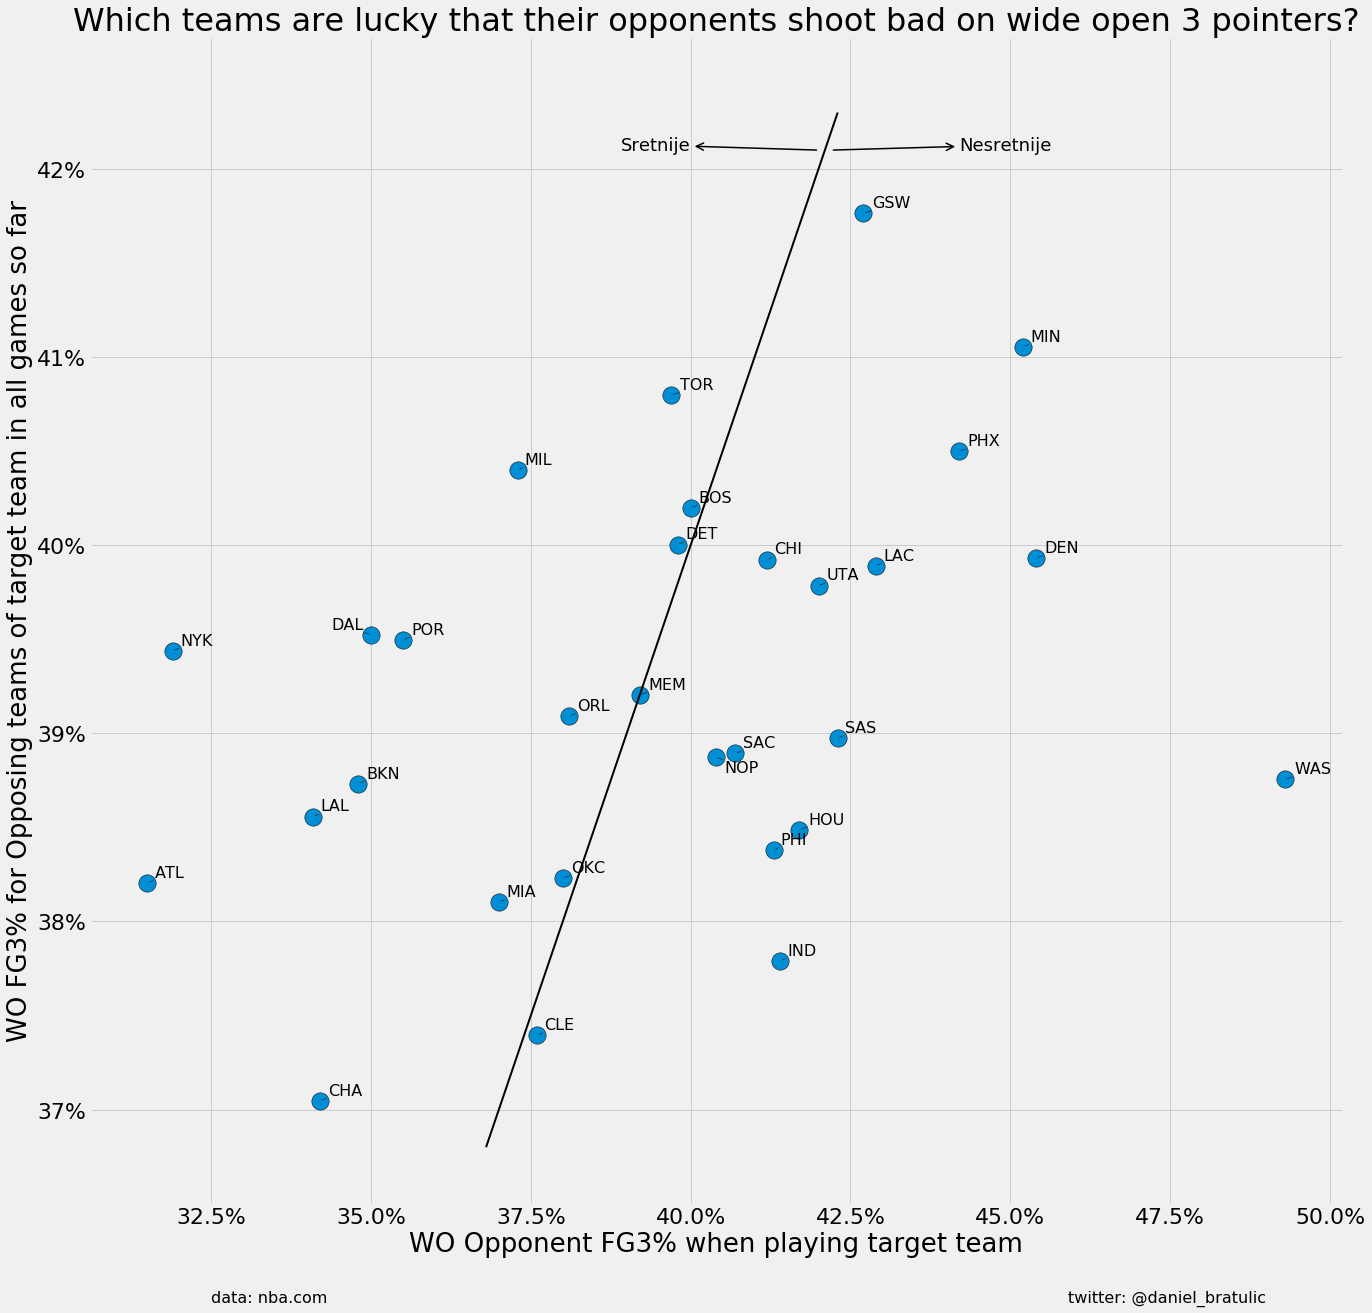
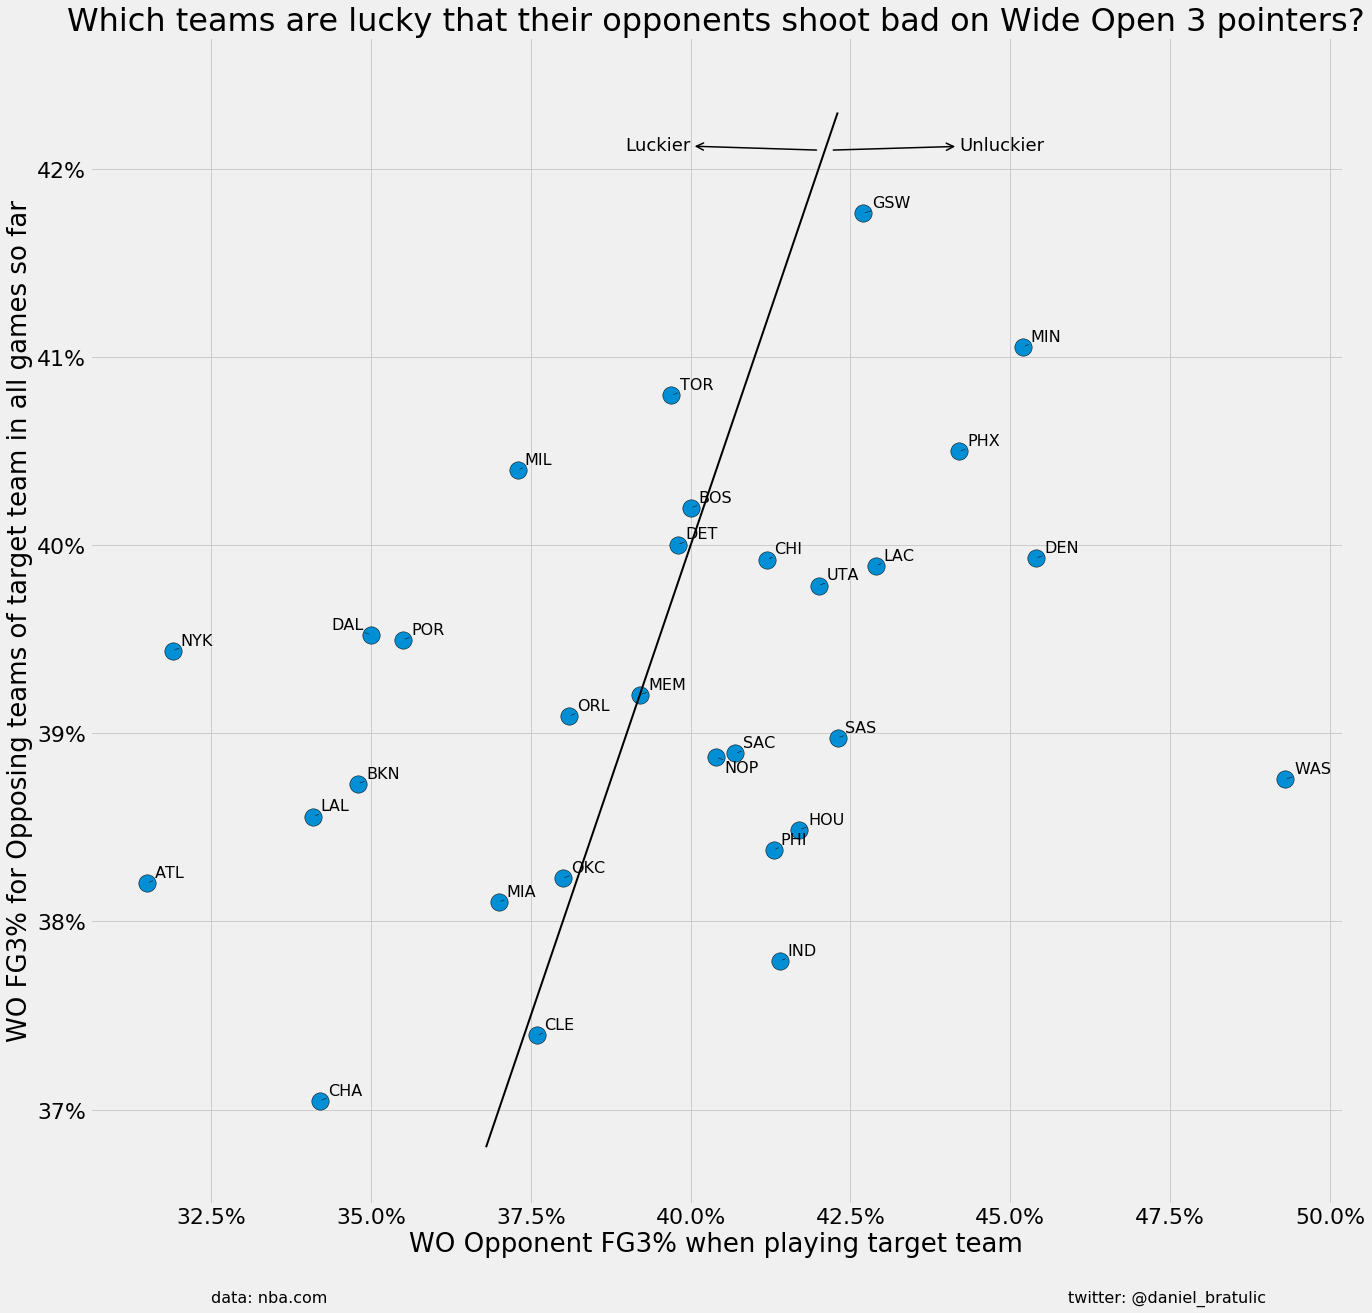
Added english version

Changed region(s): [[0.0306, 0.0, 1.0, 0.0312], [0.7041, 0.0937, 0.7653, 0.1249], [0.4592, 0.0937, 0.4898, 0.1249]]

diff --git a/en/_posts/2021-01-09-unlucky-start.md b/en/_posts/2021-01-09-unlucky-start.md
@@ -1,0 +1,84 @@
+---
+layout: post
+title: (Un)Luckiest Teams Based on Opponent's Wide Open FG3%
+lang: en
+lang-ref: unlucky-start-20-21
+url: unlucky-start-20-21
+twitter_img: /assets/unlucky_start/wide_open_table.jpg
+---
+
+
+![](/assets/unlucky_start/wide_open_table.png)
+
+Some teams started the season surprisingly well, while others started rather badly. So if you glance over this table and then the real NBA standings you'll notice that teams which are on top here have really bad score (Washington 2-7, Denver 3-5 and Minny 2-6).
+
+On the other hand, teams on bottom of this table have a solid score, Hawks currently sit at 4-4 while Knicks' score is 5-4.  
+
+<!--more-->
+
+## Wide Open shots
+
+This table is all about Wide Open Shots. Shot is classified as wide open when the distance between the nearest defender and shooter is 6 Feet (or 1.8 meters). We can say that defender doesn't have a huge impact on these kind of shots because even if he contests the shot, the shooter will still have plenty of space and time to release the ball.
+
+## Definition of Metrics/Statistics
+
+#### ALLOWED WO FG3%
+
+I'll first explain ALLOWED WO FG3% column, since it is easier to explain it. That is basically **FG3% of opponent's wide open three pointers against target team**. If we observe Wizards only, they "allow" 49.3% (7.7 FG3M out of 15.6 FG3A) of opponent's wide open triples.
+
+These numbers are identical to numbers on [this link](https://www.nba.com/stats/teams/opponent-shots-closest-defender/?Season=2020-21&SeasonType=Regular%20Season&CloseDefDistRange=6%2B%20Feet%20-%20Wide%20Open).
+
+#### WO FG3% BY OPP TEAMS
+
+This metric is something else, and it is a bit tougher to explain, so I'll try to use Wizards as an example once again. Their opponents thus far have been: ORL (x2), MIN, CHI (x2), BOS, PHI (x2), BKN.
+
+I'll take all of these opponents (but only once!) and sum up their MADE and ATTEMPTED wide open three point shots in the season thus far.
+
+* ORL -> FG3M: 5.22, FG3A: 14.89
+* MIN -> FG3M: 5.75, FG3A: 15.13
+* CHI -> FG3M: 7.11, FG3A: 18.22
+* PHI -> FG3M: 7.78, FG3A: 18.89
+* BOS -> FG3M: 5.2, FG3A: 13.0
+* BKN -> FG3M: 6.11, FG3A: 15.78
+
+When we sum up these numbers we get FG3M: 37.17 i FG3A: 95.91 meaning that the average percentage of wide open shots of Wizards' opponents is `37.17 / 95.91 = 0.3876`, or rather `38.76%`.
+
+So this metric shows **FG3% on wide open three pointers for Opposing teams of target team in all games thus far**
+
+## Alternative to the table
+
+Alternative to the table can be this *Scatter Plot*.
+
+![](/assets/unlucky_start/wide_open_3pt_luck.png)
+
+The diagonal line represents "ideal case", meaning that the values on x-axis and y-axis are identical (no luck involved at all). So you can see from this and the table above that there is absolutely no luck involved with Memphis, while Cleveland, Detroit, Boston and OKC are really close to "no-luck" effect as well.
+
+But there are also some big extremes, the already mentioned Knicks and Hawks. They "allow" really small FG3% on Wide Open shots, even though their opponents generally shoot **okay** (the y-axis value) in all games thus far combined.
+
+On the other side of the extreme are the Wizards (and Nuggets and Minny). Maybe Beal was wrong when he said that they [couldn't defend a parked car](https://bleacherreport.com/articles/2926076-bradley-beal-says-wizards-cant-guard-a-parked-car-after-loss-to-celtics) and they've just been unlucky? Or maybe there is something deeper in this story that makes Wizards' opponents go "Curry-like" versus them...
+
+
+## Cooling Down
+
+In the end here is another chart which paints the picture of Opponent's Wide Open triples through the seasons.
+
+![](/assets/unlucky_start/mean_stddev_through_years.png)
+
+Average at the level of entire league doesn't jump out that much this year. It is still around 39.5%-40% but the standard deviation is huge. If you aren't familiar with that term, standard deviation is a measure of the amount of variation or dispersion of a set of values. A low standard deviation indicates that the values tend to be close to the mean of the set, while a high standard deviation indicates that the values are spread out over a wider range.
+
+But such high deviation is expected at the start of the season, as it normalizes as time goes on. Time does heal everything...
+
+| Season | Starting deviation | Deviation through entire season |
+| ------ | ------------------ | ------------------------ |
+| 2013-14 | 0.05 | 0.02 |
+| 2014-15 | 0.04 | 0.02 |
+| 2015-16 | 0.04 | 0.02 |
+| 2016-17 | 0.04 | 0.02 |
+| 2017-18 | 0.03 | 0.01 |
+| 2018-19 | 0.04 | 0.02 |
+| 2019-20 | 0.04 | 0.02 |
+| 2020-21 | 0.04 | ? |
+
+## Conclusion
+
+With all that was written here, we can expect that such big differences in opponent's wide open 3pt% will reduce, that Knicks and Hawks are going to regress and the Wizards should win a game or two in near future. 
